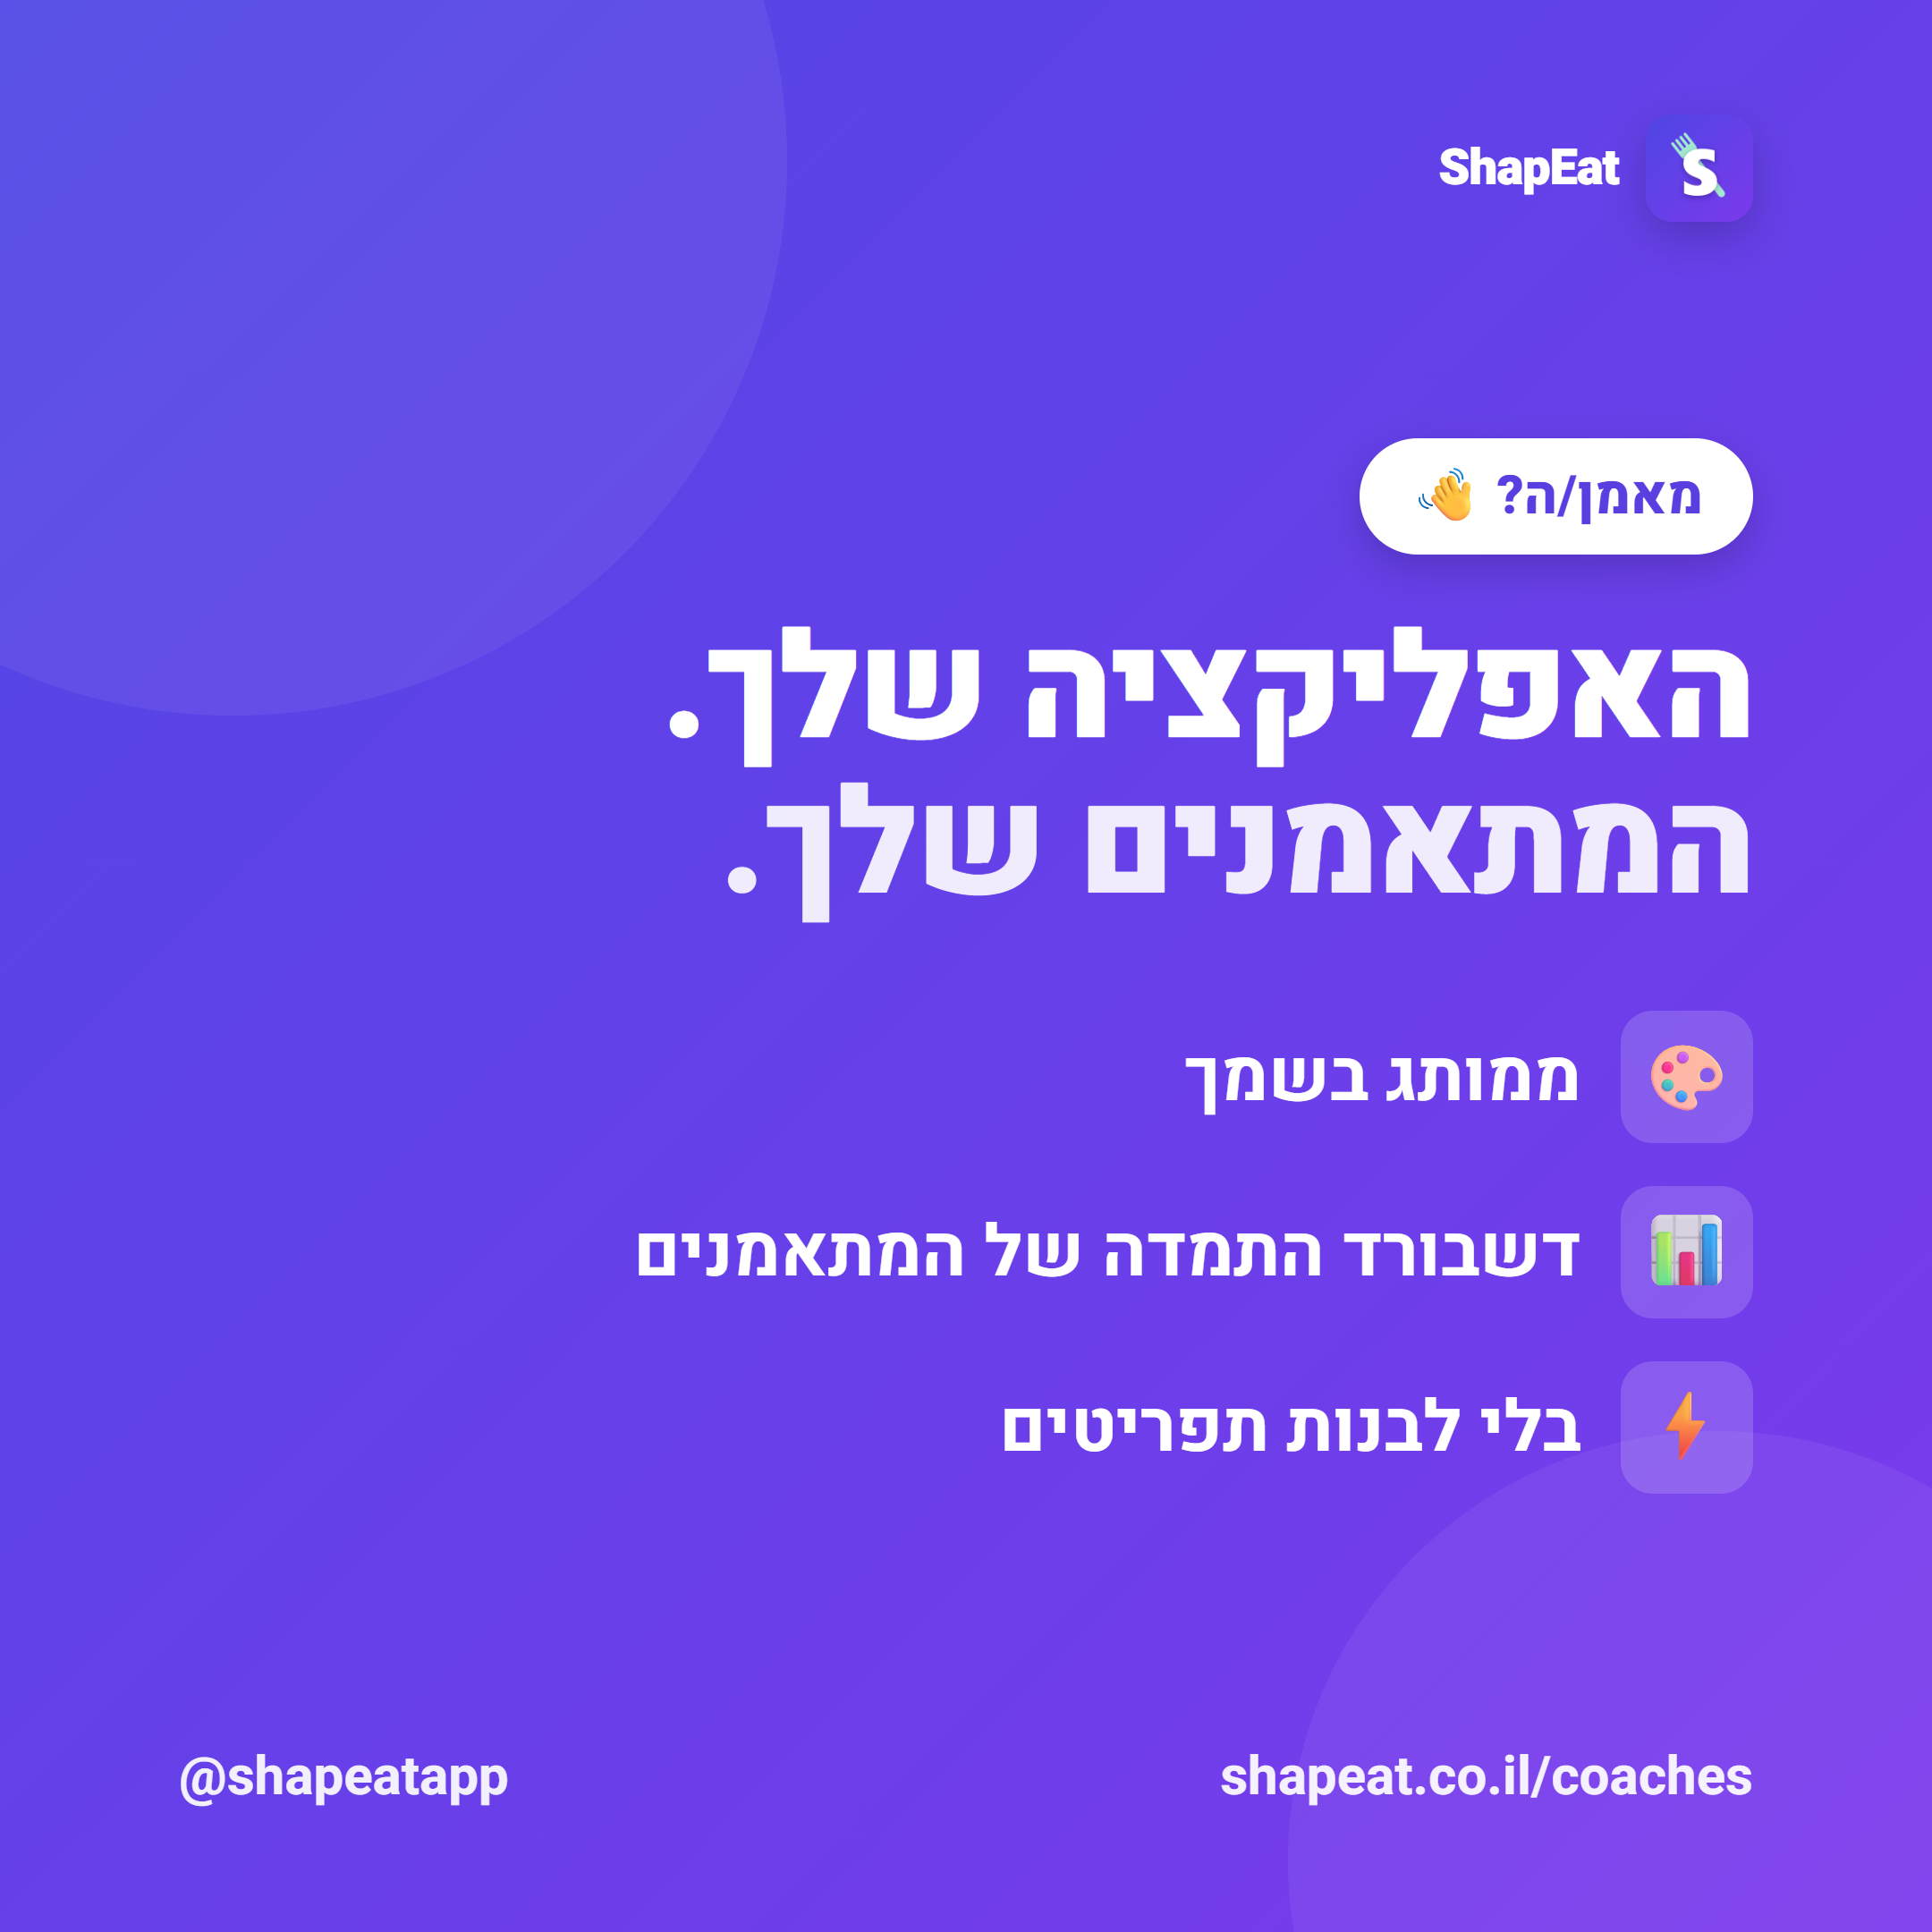
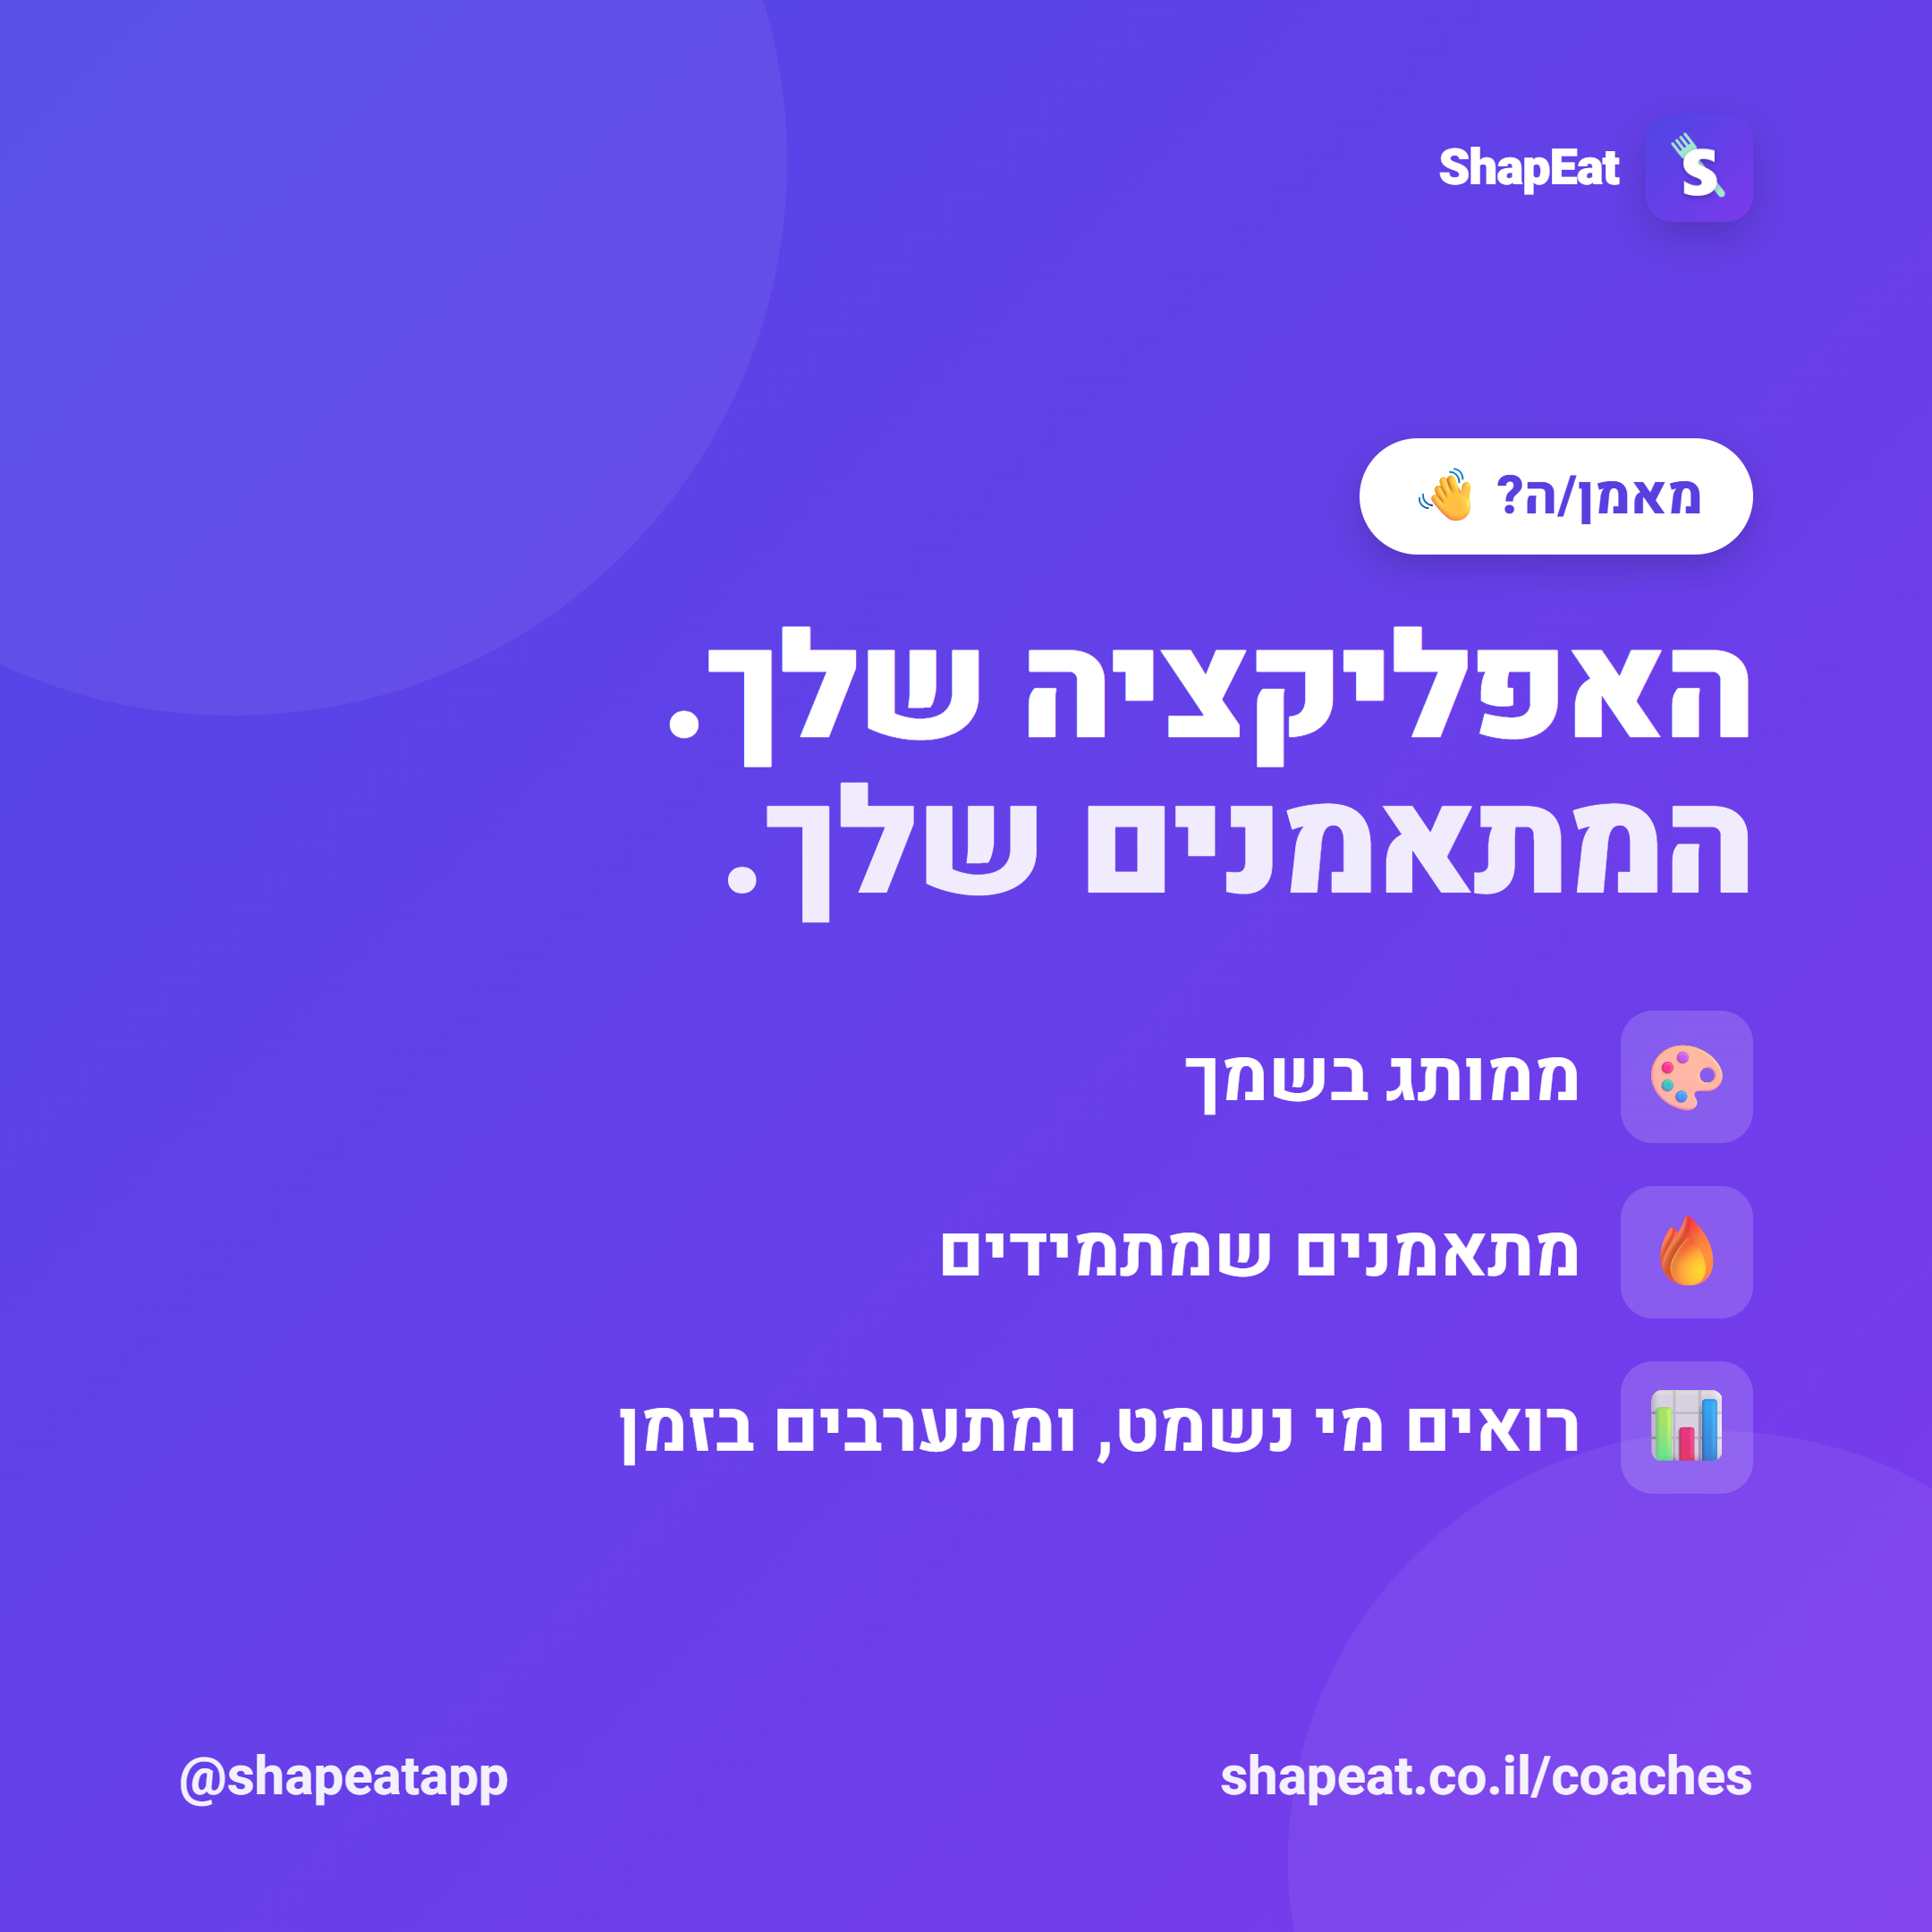
Post #4 image: replace time-saving value with dashboard-intervention
Swap the "no manual menus" row (time-saving red line) for the coach-ROI trio
that matches the rewritten caption and landing page: branding / trainees stay
consistent / see who's slipping and intervene in time. Re-rendered
post-coaches.png via shot-single.mjs.

diff --git a/brand/posts/post-coaches.html b/brand/posts/post-coaches.html
@@ -39,8 +39,8 @@
       <div class="h1">האפליקציה שלך.<br><span class="grad">המתאמנים שלך.</span></div>
       <div class="list">
         <div class="row"><div class="ic">🎨</div><div>ממותג בשמך</div></div>
-        <div class="row"><div class="ic">📊</div><div>דשבורד התמדה של המתאמנים</div></div>
-        <div class="row"><div class="ic">⚡</div><div>בלי לבנות תפריטים</div></div>
+        <div class="row"><div class="ic">🔥</div><div>מתאמנים שמתמידים</div></div>
+        <div class="row"><div class="ic">📊</div><div>רואים מי נשמט, ומתערבים בזמן</div></div>
       </div>
     </div>
     <div class="url">shapeat.co.il/coaches</div>